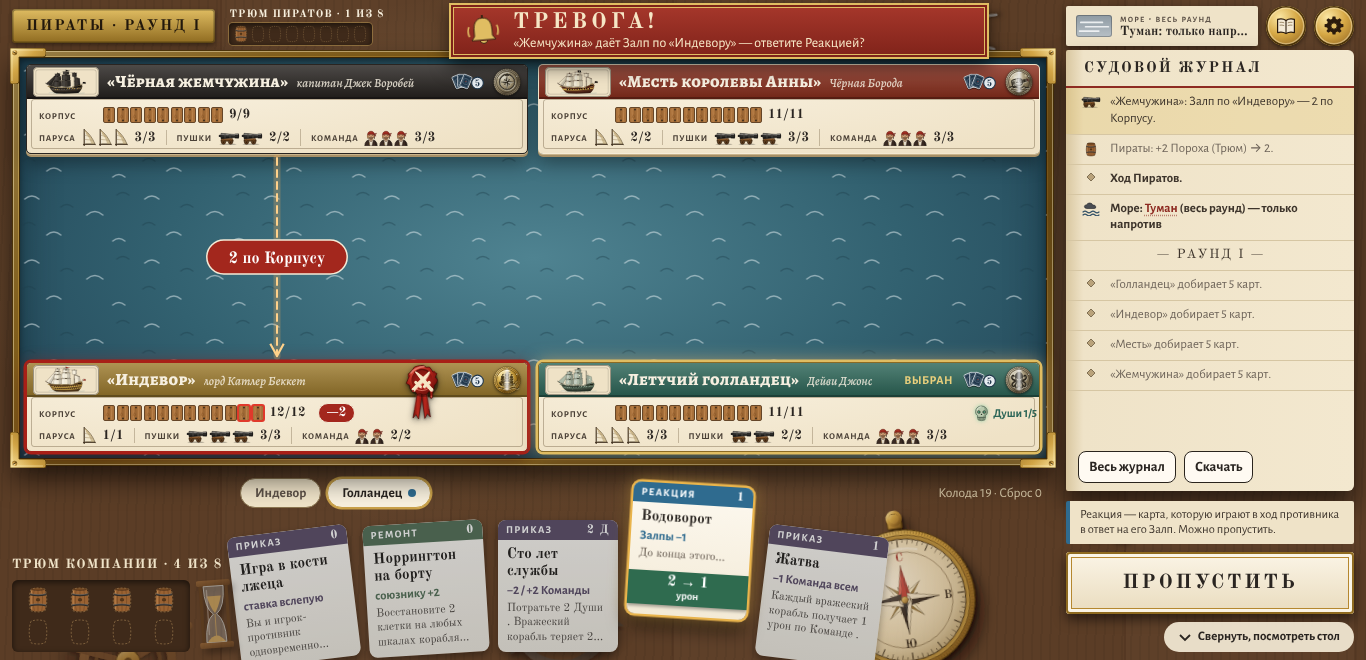
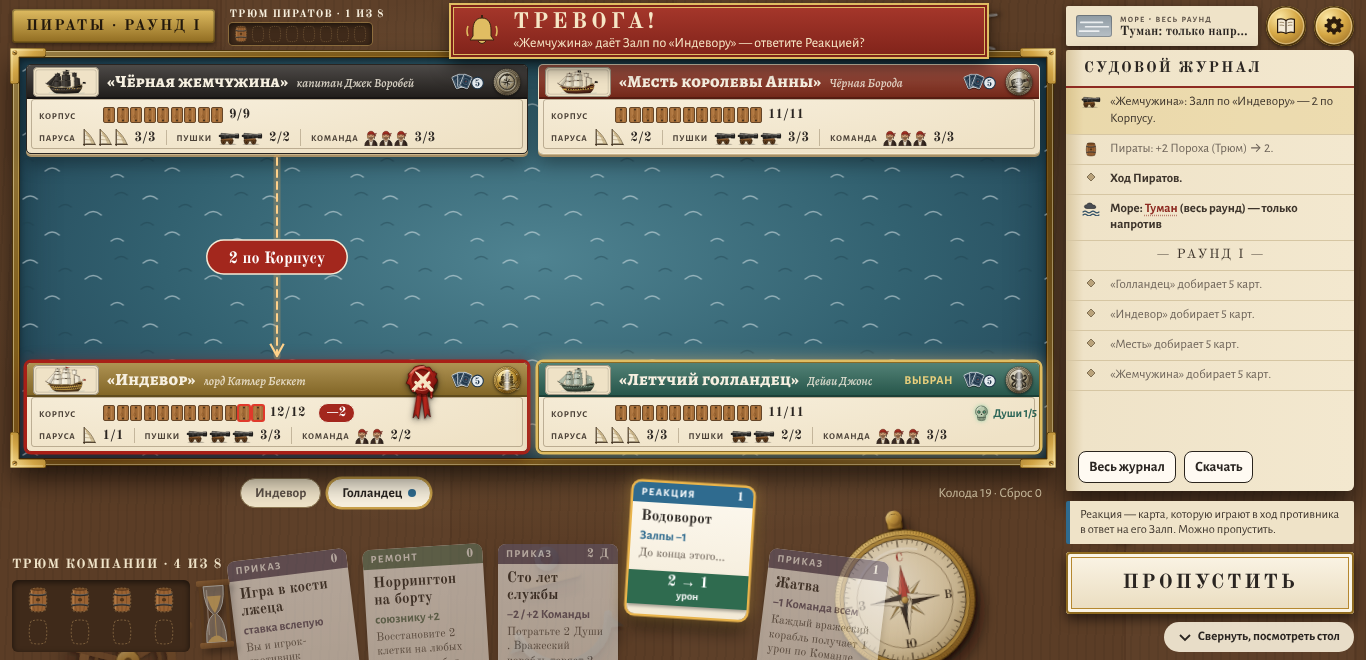
a5-windows: polish
«Тревога!»: the cards of the hand that are not Reactions are faded and lowered as in A5Alarm.png. The Volley with a miss:
the frames of the pills «Буря −1» / «Диагональ −1» at the splash; on a phone the pill of a miss stands beside the plate, not
over it.

Claude-Session: https://claude.ai/code/session_01Y7WLDj8ndbpqCDHCctzY3f

Changed region(s): [[0.1537, 0.7879, 0.4612, 1.0], [0.5534, 0.7879, 0.6764, 1.0], [0.3382, 0.0303, 0.369, 0.0606]]

diff --git a/src/ui/game/fx/volley.ts b/src/ui/game/fx/volley.ts
@@ -120,6 +120,16 @@ function fitPlate(ctx: FxCtx) {
   VS.plate.style.top = y + 'px';
   if (VS.plateBox) VS.plateBox.y = y;
 }
+/** V5: the pill of a miss beside the plate, not over it (a phone: the splash lies at the edge of the plate) — left, else right, else above. */
+function besidePlate(ctx: FxCtx, t: HTMLElement) {
+  const pl = VS?.plate;
+  if (!pl || !pl.isConnected) return;
+  const a = bx(ctx, t), p = bx(ctx, pl), W = ctx.board.clientWidth;
+  if (a.r <= p.x || a.x >= p.r || a.b <= p.y || a.y >= p.b) return;
+  if (p.x - 6 - a.w >= 8) t.style.left = p.x - 6 - a.w / 2 + 'px';
+  else if (p.r + 6 + a.w <= W - 8) t.style.left = p.r + 6 + a.w / 2 + 'px';
+  else t.style.top = p.y - 6 - a.h / 2 + 'px';
+}
 /**
  * V5: the plate is not taken away with the clip: it passes to the traces (fx/scars.ts, 'plate') — stays ≈ 2 s more, fades,
  * and a press on the table drops it at once. The layer is empty when the show ends (the e2e of the layer count on it).
@@ -407,7 +417,7 @@ PLAY.shot = async (c, ctx) => {
         if (ctx.rich) { const gu = mk(ctx, 'gust', 0, 0, '<svg viewBox="0 0 220 40" width="220" height="40"><g fill="none" stroke="#9FB6C6" stroke-width="2" stroke-linecap="round"><path d="M2 14 C60 4 120 26 218 12"/><path d="M20 30 C80 22 140 38 200 26" opacity=".7"/></g></svg>'); A(ctx, gu, [{ opacity: 0, transform: `translate(${mid.x - 40}px,${mid.y + 6}px) scaleX(.4)` }, { opacity: 0.9, offset: 0.3 }, { opacity: 0, transform: `translate(${mid.x + 90}px,${mid.y + 10}px) scaleX(1)` }], 650, t0 + FLY * 0.35); } }
       flyBall(pts, d, t0, { lift: 0.15 });
       if (VS && VS.dust) { burst(ctx, 'dust', end.x, end.y, t0 + d * 0.6, 8, 6, 22, 700); } else if (b.out === 'past') splash(ctx, end.x, end.y, t0 + d); else missSplash(ctx, svg, end.x, end.y, 0.85 * gunScale, t0 + d, T.volley.splash);
-      if (b.label) tag(ctx, end.x + (end.x > ctx.board.clientWidth / 2 ? -10 : 10), end.y - 26 * down, b.label, t0 + d + 40, 'mod', 1700);
+      if (b.label) besidePlate(ctx, tag(ctx, end.x + (end.x > ctx.board.clientWidth / 2 ? -10 : 10), end.y - 26 * down, b.label, t0 + d + 40, 'mod', 1700));
     } else if (b.out === 'bounce') {
       const edge = { x: tb.x + tb.w * (0.25 + 0.18 * (i % 3)), y: facingY(ctx, c.target) - down * 6 };
       fly(ctx, ball(), curve(p0, edge, 0.04 * down), FLY * 0.9, t0, { fadeEnd: false });

diff --git a/e2e/fx-volley.spec.ts b/e2e/fx-volley.spec.ts
@@ -103,6 +103,35 @@ test.describe('V5: the plate on a phone (390×844)', () => {
   });
 });
 
+// V5: a ball the modifier took falls short; at its splash — the pill of that modifier. Frames go to
+// docs/screenshots/a5-windows/ (b-volley-miss-*), next to b-volley-ref-*.
+for (const { width, height } of [
+  { width: 1366, height: 660 },
+  { width: 390, height: 844 },
+]) {
+  test.describe(`V5: the pill of a miss (${width}×${height})`, () => {
+    test.use({ viewport: { width, height } });
+    for (const [id, text] of [
+      ['storm', 'Буря −1'],
+      ['diag', 'Диагональ −1'],
+    ]) {
+      test(`${id}: «${text}» at the splash`, async ({ page }) => {
+        await open(page, id);
+        const pill = page.locator('.fx-layer > .tag.mod', { hasText: text });
+        await expect(pill).toHaveCount(1, { timeout: 15_000 });
+        await page.waitForFunction((t) => Array.from(document.querySelectorAll('.fx-layer > .tag.mod')).some((e) => e.textContent === t && Number(getComputedStyle(e).opacity) > 0.95), text);
+        const box = (await pill.boundingBox())!;
+        expect(box.x).toBeGreaterThanOrEqual(0);
+        expect(box.x + box.width).toBeLessThanOrEqual(width);
+        // beside the plate, not over it
+        const plate = (await page.locator('.fx-layer > .plate').boundingBox())!;
+        expect(box.x + box.width <= plate.x || box.x >= plate.x + plate.width || box.y + box.height <= plate.y || box.y >= plate.y + plate.height).toBe(true);
+        await page.screenshot({ path: `docs/screenshots/a5-windows/b-volley-miss-${id}-${width}x${height}.png` });
+      });
+    }
+  });
+}
+
 test.describe('a bot match (1366×660)', () => {
   test.use({ viewport: { width: 1366, height: 660 } });
 

diff --git a/e2e/clarity.spec.ts b/e2e/clarity.spec.ts
@@ -103,6 +103,10 @@ test.describe('laptop 1366×660', () => {
     // The arrow and the pill are on the table; the strip of the outcome is under «Подсказки» only.
     await expect(page.getByTestId('alarm-pill')).toContainText('по Корпусу');
     await expect(page.locator('.hcard-strip.ok')).toHaveCount(0);
+    // The cards that are not Reactions are faded and lowered (A5Alarm.png).
+    const dim = page.locator('.hand .hcard.al-dim');
+    expect(await dim.count()).toBeGreaterThan(0);
+    expect(Number(await dim.first().evaluate((e) => getComputedStyle(e).opacity))).toBeLessThan(0.7);
     const card = page.locator('.hand .hcard.al-ok').first();
     const code = (await card.getAttribute('data-card'))!;
     await card.click();

diff --git a/src/ui/game/alarm.css b/src/ui/game/alarm.css
@@ -114,10 +114,13 @@
   filter: drop-shadow(0 2px 3px rgba(0, 0, 0, 0.5));
 }
 
-/* the hand: the Reactions that can be played stand up with a gold frame, the others lie lower and duller */
+/* the hand: the Reactions that can be played stand up with a gold frame, the others lie lower, faded into the table
+   (A5Alarm.html: opacity .55, saturate(.4), ≈ 50 px under the Reactions); a pointer on them does not lift them */
 .hand.alarm .hand-cards > .hcard.al-dim {
-  filter: grayscale(0.55) brightness(0.82);
-  translate: 0 calc(var(--dy, 0px) + 16px);
+  opacity: 0.55;
+  filter: saturate(0.4);
+  translate: 0 calc(var(--dy, 0px) + 40px);
+  scale: 1;
   box-shadow: 0 4px 8px rgba(0, 0, 0, 0.35);
 }
 .hand.alarm .hand-cards > .hcard.al-ok {

diff --git a/docs/progress/a5-windows.md b/docs/progress/a5-windows.md
@@ -9,7 +9,8 @@
 - [x] 0. Правка e2e на main (`a5-av: fix main e2e`): `clarity.spec.ts:73`
 - [x] (а) U2 «Тревога!»
 - [x] (б) V5 табличка Залпа
-- [ ] (в) V7 Победа — **в новой сессии** (решение пользователя: эта сессия делает 0, (а), (б))
+- [x] polish (а)/(б): приглушённая рука при «Тревоге», кадры пилюль промаха
+- [ ] (в) V7 Победа
 
 ## Решения пользователя
 
@@ -108,5 +109,18 @@ CI main (запуск #137, run 39234698938): упала одна спека, `e
 `b-volley-game-430x932`, `b-volley-game-390x844` рядом с `b-volley-ref-phone`. Сцена — `storm` (Буря; в сценах эталона нет Залпа по
 диагонали в Бурю, диагональ видна в сценах `paid`, `overkill`).
 
-Отличия от образца: табличка стоит там же, где стояла (в колонке цели, посередине прохода), а не у ряда цели; на кадрах нет
-пилюль «Буря −1» / «Диагональ −1» у всплесков: в сценах эталона все ядра попадают (вид пилюли проверен вручную, класс `tag mod`).
+Отличия от образца: табличка стоит там же, где стояла (в колонке цели, посередине прохода), а не у ряда цели. (Кадры
+пилюль промаха — в «polish» ниже.)
+
+### polish (а)/(б) — сделано
+
+- «Тревога!»: карты руки, кроме Реакций, приглушены и опущены, как в `A5Alarm.png` (`alarm.css`, `.al-dim`: прозрачность 0,55,
+  `saturate(.4)`, на 40 px ниже, наведение их не поднимает; было — почти яркие, `grayscale(.55)`, на 16 px). e2e `clarity`:
+  у `.al-dim` прозрачность меньше 0,7. Кадры `a-alarm-game-hints-1366x660`, `a-alarm-game-nohints-1366x660` пересняты.
+- Залп с промахом: пилюли «Буря −1» / «Диагональ −1» у всплеска есть (сцены `storm` и `diag`; прошлые кадры были сняты не в тот
+  момент). На телефоне всплеск лежит у края таблички и пилюля наезжала на неё — теперь пилюля промаха встаёт рядом с табличкой
+  (слева, иначе справа, иначе над ней; `besidePlate` в `fx/volley.ts`). e2e `fx-volley.spec.ts` (+4, «the pill of a miss»):
+  пилюля видна, в пределах экрана, не на табличке; кадры `b-volley-miss-{storm,diag}-{1366x660,390x844}`.
+
+Проверено: `npm run typecheck` — без ошибок; `npx vitest run tests/fx-volley.test.ts tests/alarm.test.ts` — 17/17;
+`npx playwright test e2e/clarity.spec.ts e2e/fx-volley.spec.ts` — 27/27; `e2e/u3-layout.spec.ts -g "window of Reactions"` — прошёл.
